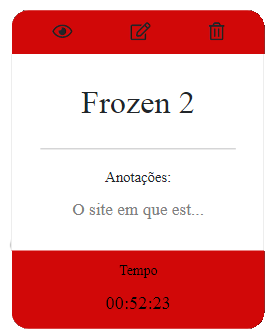
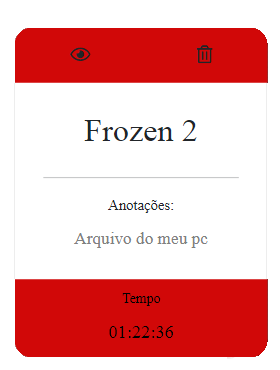
att

diff --git a/src/main/resources/templates/cards.html b/src/main/resources/templates/cards.html
@@ -158,9 +158,6 @@
               <a th:attr="data-bs-target='#CardModalPreviewSerie'+${serie.id}" data-bs-toggle="modal"
                 data-toggle="tooltip" title="Visualizar" id="btnCardHeader" class="btn" role="button"><i
                   class="far fa-eye"></i></a>
-              <a th:attr="data-bs-target='#CardModalPreviewSerie'+${serie.id}" data-bs-toggle="modal"
-                data-toggle="tooltip" title="Editar" id="btnCardHeader" class="btn" role="button"><i
-                  class="far fa-edit"></i></a>
               <a th:attr="data-bs-target='#myModald'+${serie.id}" data-bs-toggle="modal" data-toggle="tooltip"
                 title="Excluir" id="btnCardHeader" class="btn" role="button"><i class="far fa-trash-alt "></i></a>
 
@@ -231,8 +228,6 @@
                 <a th:attr="data-bs-target='#myModald'+${serie.id}" data-bs-toggle="modal" data-bs-dismiss="modal"
                   role="button" class="btn btn-warning" title="Popover title"
                   data-bs-content="Popover body content is set in this attribute.">Excluir</a>
-                <a th:attr="data-bs-target='#myModalEditSerie'+${serie.id}" type="button" class="btn btn-warning" data-bs-toggle="modal"
-                  data-bs-dismiss="modal">Editar</a>
                 <button type="button" class="btn btn-warning" data-bs-dismiss="modal">Close</button>
 
               </div>
@@ -257,51 +252,6 @@
         </div>
 
 
-        <div class="modal fade" th:id="myModalEditSerie+${serie.id}" tabindex="-1" aria-labelledby="exampleModalLabel" aria-hidden="true">
-          <div class="modal-dialog">
-            <div class="modal-content" >
-              <div class="modal-header">
-                <h5 class="modal-title" id="exampleModalLabelSerie">Editando card</h5>
-                <button type="button" class="btn-close" data-bs-dismiss="modal" aria-label="Close"></button>
-              </div>
-              <div class="modal-body">
-                <form method="POST" th:action="@{/editSerie}" th:object="${serie}">
-                  <input type="hidden" id="id" th:field="*{id}" th:value="${serie.id}">
-                  <div class="mb-3">
-                    <label class="col-form-label">Nome da série:</label>
-                    <input   th:value="${serie.nome}" type="text" class="form-control" id="nome">
-                  </div>
-                  <div class="mb-3">
-                    <label class="col-form-label">Temporada</label>
-                    <input  th:value="${serie.temp}" type="number" class="form-control" id="temp" >
-                  </div>
-                  <div class="mb-3">
-                    <label class="col-form-label">Episódio</label>
-                    <input  th:value="${serie.ep}" type="number" class="form-control" id="ep" >
-                  </div>
-                  <div class="mb-3">
-                    <label class="col-form-label">Tempo:</label>
-                    <input  th:value="${serie.time}" type="time" class="form-control" step="1" id="tempo" >
-                  </div>
-                  <div class="mb-3">
-                    <label class="col-form-label">Anotações:</label>
-                    <textarea th:value="${serie.anotacao}" class="form-control" id="message-text" ></textarea>
-                  </div>
-                  
-  
-              </div>
-  
-              <div class="modal-footer">
-                <button id="btnNC" type="button" class="btn" data-bs-dismiss="modal">Close</button>
-                <button id="btnNC" type="submit" class="btn">salvar alterações</button>
-  
-              </div>
-  
-              </form>
-            </div>
-          </div>
-        </div>
-  
 
 
       </div>
@@ -317,9 +267,6 @@
               <a th:attr="data-bs-target='#CardModalPreviewFilmes'+${filme.idFilme}" data-bs-toggle="modal"
                 data-toggle="tooltip" title="Visualizar" id="btnCardFilme" class="btn" role="button"><i
                   class="far fa-eye"></i></a>
-              <a th:attr="data-bs-target='#CardModalPreviewFilmes'+${filme.idFilme}" data-bs-toggle="modal"
-                data-toggle="tooltip" title="Editar" id="btnCardFilme" class="btn" role="button"><i
-                  class="far fa-edit"></i></a>
               <a th:attr="data-bs-target='#myModalf'+${filme.idFilme}" data-bs-toggle="modal"
                 data-toggle="tooltip" title="Excluir" id="btnCardFilme" class="btn" role="button"><i
                   class="far fa-trash-alt"></i></a>

diff --git a/src/main/resources/static/css/style.css b/src/main/resources/static/css/style.css
@@ -227,17 +227,19 @@ body{
 }
 
 #btnCardHeader{
-  margin-left: 10px;
-  margin-right: 10px;
+  margin-left: 32px;
+  margin-right: 32px;
   visibility: hidden;
+  padding: 5%;
 }
 #btnCardHeader:hover{
   transform: scale(1.15); 
 }
 #btnCardFilme{
-  margin-left: 10px;
-  margin-right: 10px;
+  margin-left: 32px;
+  margin-right: 32px;
   visibility: hidden;
+  padding: 5%;
   }
   #btnCardFilme:hover{
     transform: scale(1.15);

diff --git a/src/main/java/com/maats/saveseries/controller/SeriesController.java b/src/main/java/com/maats/saveseries/controller/SeriesController.java
@@ -77,30 +77,6 @@ public class SeriesController {
 
     }
 
-    @GetMapping("/editSerie/{id}")
-    public String editSerie(@PathVariable("id") Long id, Model model) {
-        Serie serie = serieService.findById(id); 
-        model.addAttribute("serie", serie);
-        
-        return "cards";
-    }
-
-    @PostMapping("/editSerie")
-    public String saveEditSerie(@Valid Serie serie, BindingResult result, Model model,
-            RedirectAttributes attributes) {
-
-        if (result.hasErrors()) {
-
-            return "redirect:/cards";
-
-        }
-
-        serieRepository.save(serie);
-
-        return "redirect:/cards";
-    }
-
-
 
     @GetMapping("/deleteSerie/{id}")
     public String deleteSerie(@PathVariable("id") Long id) {
